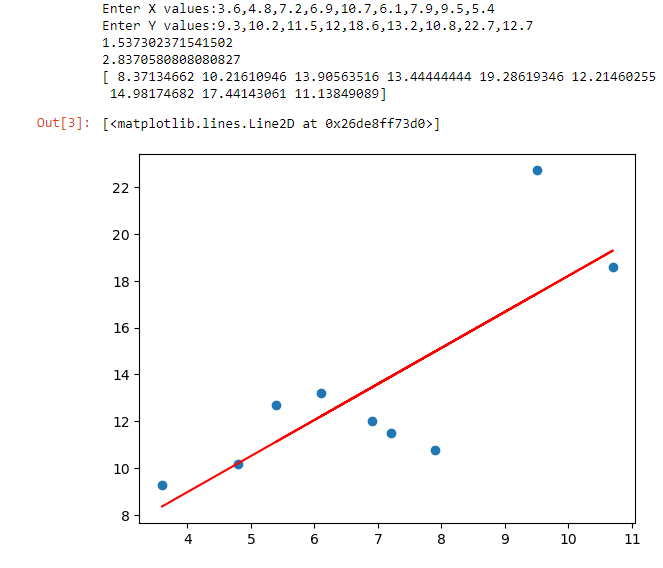
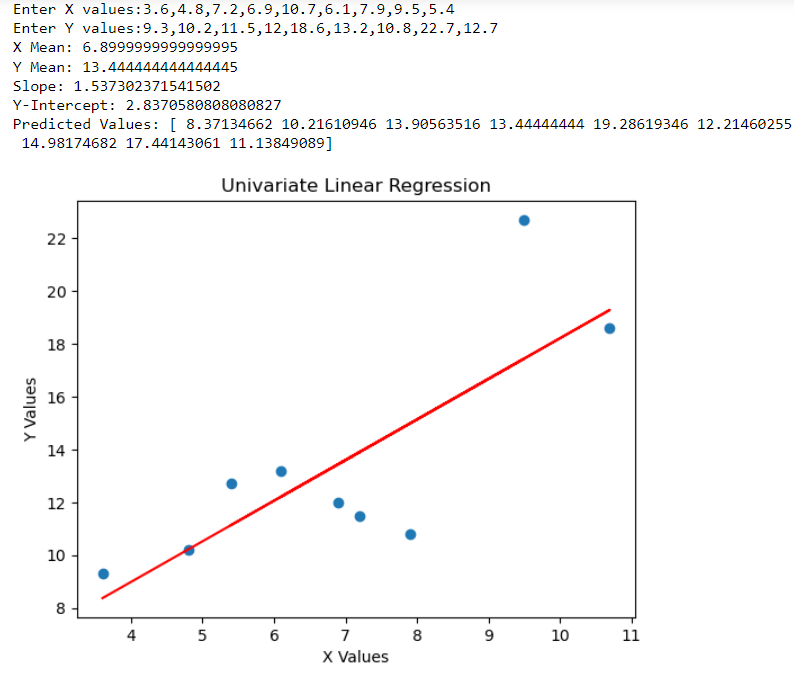
Success

diff --git a/README.md b/README.md
@@ -24,23 +24,29 @@ RegisterNumber: 212222230010
 
 import numpy as np
 import matplotlib.pyplot as plt
-x=np.array(eval(input('Enter X values:')))
-y=np.array(eval(input('Enter Y values:')))
+x=np.array(eval(input("Enter X values:")))
+y=np.array(eval(input("Enter Y values:")))
 x_mean=np.mean(x)
+print("X Mean:",x_mean)
 y_mean=np.mean(y)
+print("Y Mean:",y_mean)
 num=0
 denum=0
 for i in range(len(x)):
     num+=(x[i]-x_mean)*(y[i]-y_mean)
     denum+=(x[i]-x_mean)**2
 m=num/denum
-print(m)
+print("Slope:",m)
 b=y_mean-m*x_mean
-print(b)
+print("Y-Intercept:",b)
 y_pred=m*x+b
-print(y_pred)
+print("Predicted Values:",y_pred)
 plt.scatter(x,y)
 plt.plot(x,y_pred,color='red')
+plt.title("Univariate Linear Regression")
+plt.xlabel("X Values")
+plt.ylabel("Y Values")
+plt.show()
 ```
 
 ## Output:
